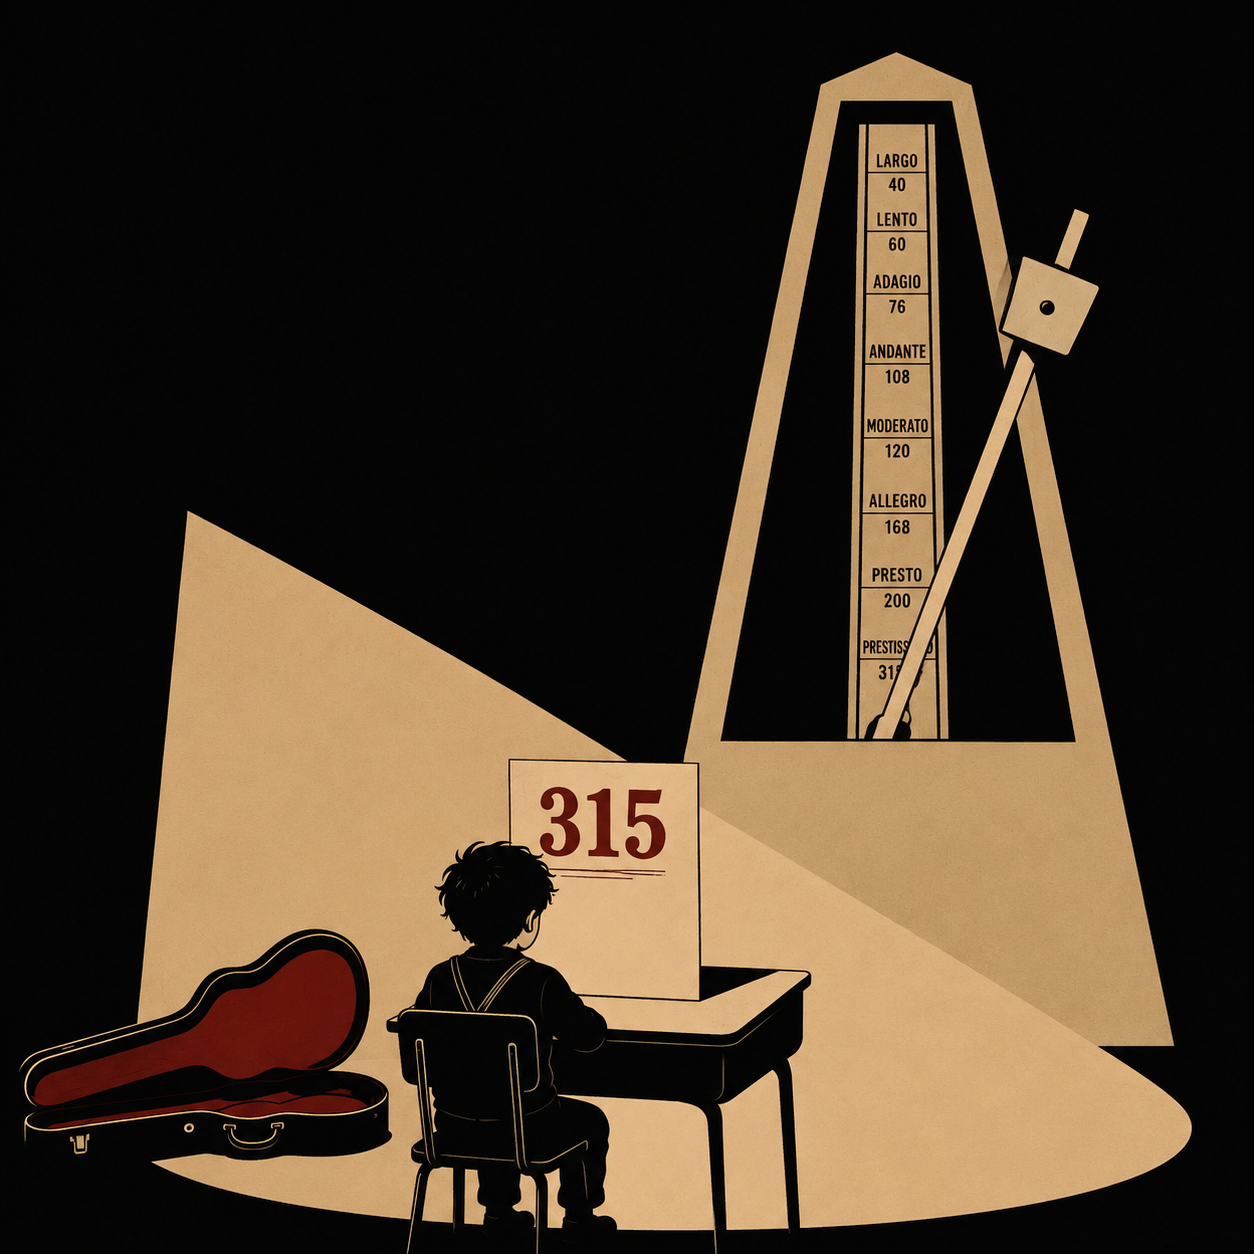
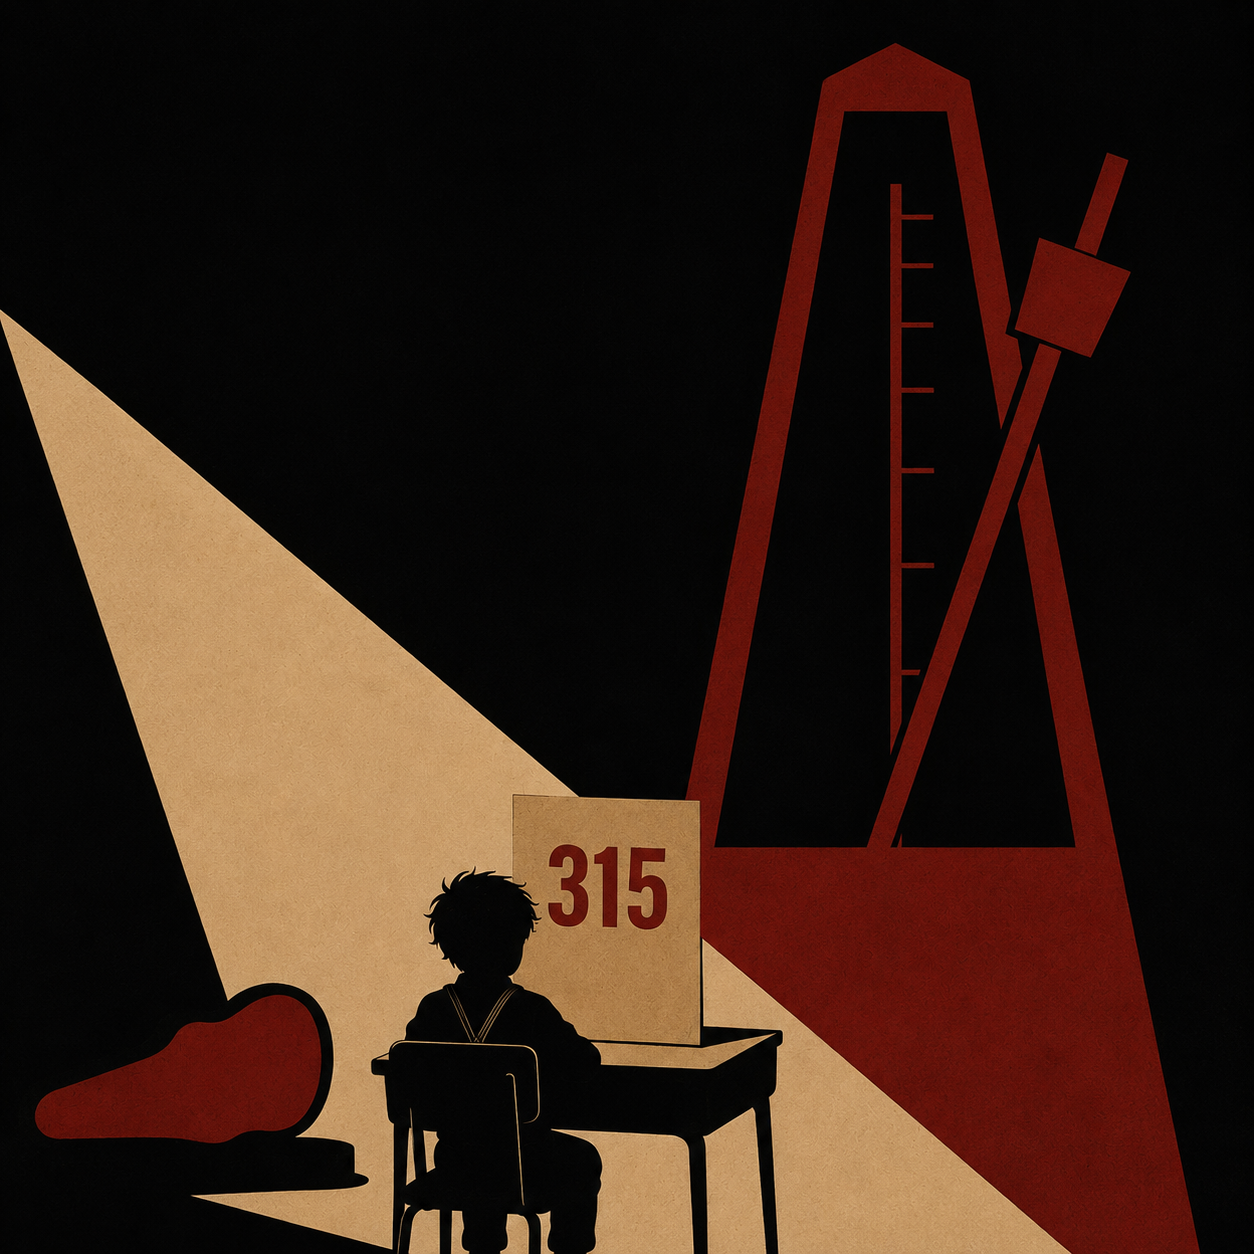
Junkyard Cabaret: refresh Three Fifteen title art
New 1254x1254 version; bump cache version on song page and main.js.

diff --git a/songs/junkyard-cabaret/three-fifteen/index.html b/songs/junkyard-cabaret/three-fifteen/index.html
@@ -13,7 +13,7 @@
     <meta property="og:url" content="https://charleswilke.com/songs/junkyard-cabaret/three-fifteen/">
     <meta property="og:title" content="Three Fifteen | Junkyard Cabaret">
     <meta property="og:description" content="A track from Junkyard Cabaret. A ramshackle album-in-progress exploring conviction, imperfection, and the human insistence on making things by hand.">
-    <meta property="og:image" content="https://charleswilke.com/audio/junkyard-cabaret/three-fifteen-title.webp?v=202605251115">
+    <meta property="og:image" content="https://charleswilke.com/audio/junkyard-cabaret/three-fifteen-title.webp?v=202605251400">
     <meta property="og:image:width" content="1254">
     <meta property="og:image:height" content="1254">
     <meta property="og:image:alt" content="Three Fifteen title art">
@@ -22,7 +22,7 @@
     <meta name="twitter:url" content="https://charleswilke.com/songs/junkyard-cabaret/three-fifteen/">
     <meta name="twitter:title" content="Three Fifteen | Junkyard Cabaret">
     <meta name="twitter:description" content="A track from Junkyard Cabaret. A ramshackle album-in-progress exploring conviction, imperfection, and the human insistence on making things by hand.">
-    <meta name="twitter:image" content="https://charleswilke.com/audio/junkyard-cabaret/three-fifteen-title.webp?v=202605251115">
+    <meta name="twitter:image" content="https://charleswilke.com/audio/junkyard-cabaret/three-fifteen-title.webp?v=202605251400">
     <meta name="twitter:image:alt" content="Three Fifteen title art">
 
     <link rel="icon" type="image/x-icon" href="/favicon.ico">
@@ -41,7 +41,7 @@
     "name": "Junkyard Cabaret"
   },
   "url": "https://charleswilke.com/songs/junkyard-cabaret/three-fifteen/",
-  "image": "https://charleswilke.com/audio/junkyard-cabaret/three-fifteen-title.webp?v=202605251115"
+  "image": "https://charleswilke.com/audio/junkyard-cabaret/three-fifteen-title.webp?v=202605251400"
 }
     </script>
 

diff --git a/main.js b/main.js
@@ -3787,7 +3787,7 @@ function initJCLightbox() {
         { title: 'Why This Way', file: 'audio/junkyard-cabaret/why-this-way.mp3', cover: 'audio/junkyard-cabaret/why-this-way-title.webp?v=202605251115', article: 'https://charleswilke.substack.com/p/the-narrower-path' },
         { title: 'Cathedral of Junk', file: 'audio/junkyard-cabaret/cathedral-of-junk.mp3', cover: 'audio/junkyard-cabaret/cathedral-of-junk-title.webp?v=202605251048', article: 'https://charleswilke.substack.com/p/theaters-last-stand' },
         { title: 'Pauses Gone', file: 'audio/junkyard-cabaret/pauses-gone.mp3', cover: 'audio/junkyard-cabaret/pauses-gone-title.webp?v=202605251115', article: 'https://charleswilke.substack.com/p/staccato-again' },
-        { title: 'Three Fifteen', file: 'audio/junkyard-cabaret/three-fifteen.mp3', cover: 'audio/junkyard-cabaret/three-fifteen-title.webp?v=202605251115', article: 'https://charleswilke.substack.com/p/accumulated-velocity' },
+        { title: 'Three Fifteen', file: 'audio/junkyard-cabaret/three-fifteen.mp3', cover: 'audio/junkyard-cabaret/three-fifteen-title.webp?v=202605251400', article: 'https://charleswilke.substack.com/p/accumulated-velocity' },
         { title: 'House Lights', file: 'audio/junkyard-cabaret/house-lights.mp3', cover: 'audio/junkyard-cabaret/house-lights-title.webp?v=202605251115', article: 'https://claude.ai/share/55400033-7fb7-4d4f-bb85-ddadd5fdc57f' },
         { title: 'The New Survivalism', file: 'audio/junkyard-cabaret/the-new-survivalism.mp3?v=20260523a', cover: 'audio/junkyard-cabaret/the-new-survivalism-title.webp?v=202605251115', article: 'https://charleswilke.substack.com/p/the-new-survivalism' },
         { title: 'Hip Height', file: 'audio/junkyard-cabaret/hip-height.mp3', cover: 'audio/junkyard-cabaret/hip-height-title.webp?v=202605251115', article: 'https://charleswilke.substack.com/p/know-thyself' }
